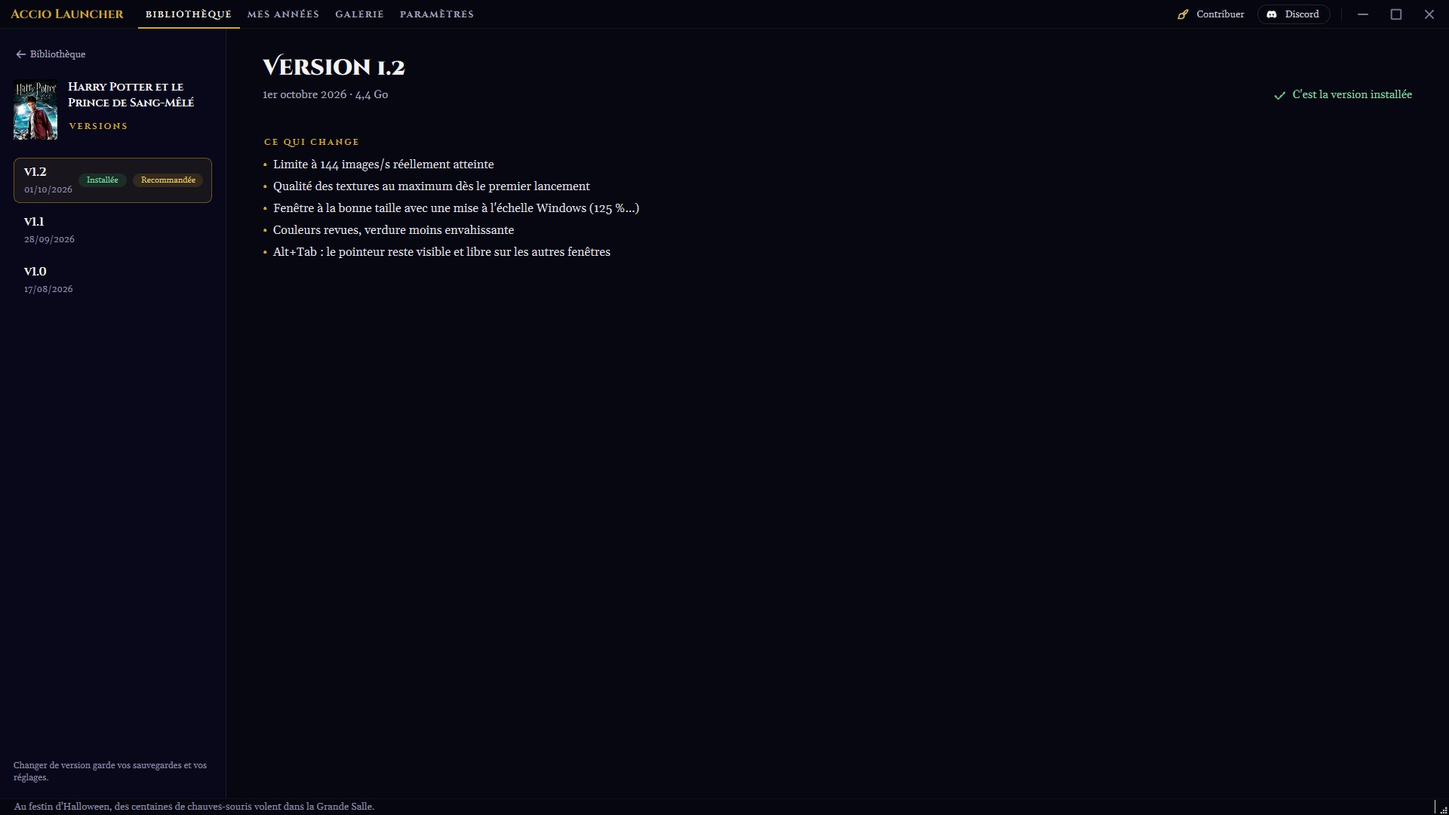
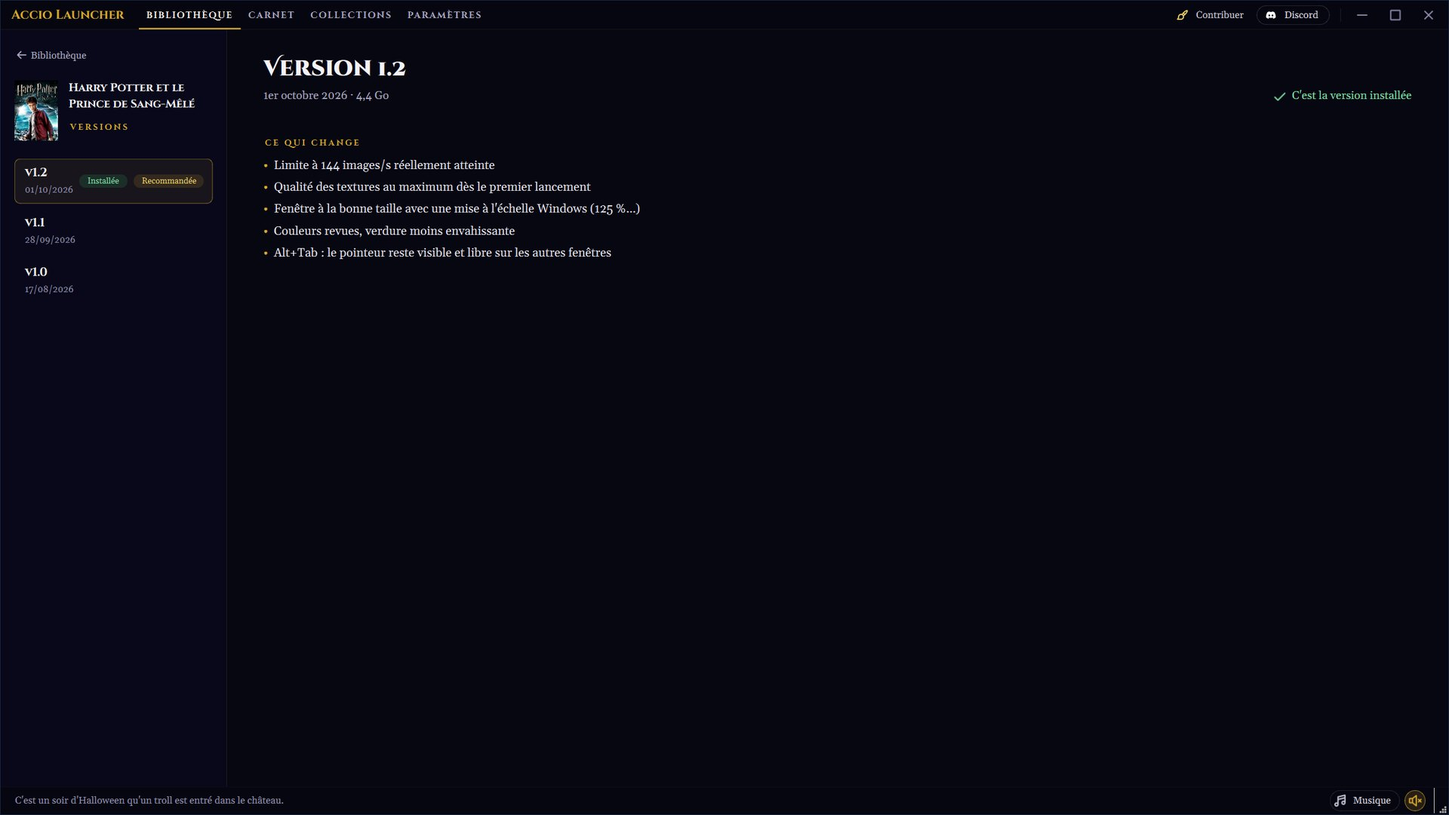
feat: Enhance video player functionality; update signal handling for position and duration

diff --git a/src/ui/video_player.py b/src/ui/video_player.py
@@ -137,8 +137,10 @@ class VideoPlayer(QObject):
         self._player.setVideoOutput(self._sink)
         self._player.setAudioOutput(self._audio)
         self._player.mediaStatusChanged.connect(self._on_media_status)
-        self._player.positionChanged.connect(self.position_changed)
-        self._player.durationChanged.connect(self.duration_changed)
+        # Relayés par des méthodes : un signal qint64 ne se branche pas sur un
+        # signal int (« connect() failed », vu au premier vrai lancement).
+        self._player.positionChanged.connect(self._sur_position)
+        self._player.durationChanged.connect(self._sur_duree)
         self._position_en_attente = debut_ms if debut_ms > 0 else -1
 
         self._player.setSource(QUrl.fromLocalFile(video_path))
@@ -154,8 +156,8 @@ class VideoPlayer(QObject):
             self._player.stop()
             self._player.setSource(QUrl())
             self._player.mediaStatusChanged.disconnect(self._on_media_status)
-            self._player.positionChanged.disconnect(self.position_changed)
-            self._player.durationChanged.disconnect(self.duration_changed)
+            self._player.positionChanged.disconnect(self._sur_position)
+            self._player.durationChanged.disconnect(self._sur_duree)
             self._sink.videoFrameChanged.disconnect(self._on_frame)
             self._player.deleteLater()
             self._sink.deleteLater()
@@ -211,6 +213,12 @@ class VideoPlayer(QObject):
                 self._image_vide_signalee = True
                 log.warning("Vidéo : image reçue mais non convertible (format %s, support %s)",
                             frame.pixelFormat(), frame.handleType())
+
+    def _sur_position(self, ms: int) -> None:
+        self.position_changed.emit(int(ms))
+
+    def _sur_duree(self, ms: int) -> None:
+        self.duration_changed.emit(int(ms))
 
     def _on_media_status(self, status) -> None:
         if self._position_en_attente >= 0 and status in (

diff --git a/tests/test_video_player.py b/tests/test_video_player.py
@@ -40,6 +40,18 @@ class TestVraieLecture:
         assert couleur.red() > 180 and couleur.green() < 80, couleur.name()
         assert not lecteur.is_playing, "la fin rend les ressources"
 
+    def test_la_duree_et_la_position_pour_la_barre_de_lecture(self, lecteur, qtbot):
+        durees = []
+        lecteur.duration_changed.connect(durees.append)
+        with qtbot.waitSignal(lecteur.position_changed, timeout=10000):
+            assert lecteur.play(str(VIDEO), muted=True)
+        qtbot.waitUntil(lambda: any(d > 0 for d in durees), timeout=10000)
+        assert 400 <= max(durees) <= 800              # 0,6 s
+        lecteur.pause()
+        lecteur.seek(300)
+        qtbot.waitUntil(lambda: lecteur.position >= 250, timeout=5000)
+        assert lecteur.duration == max(durees)
+
     def test_relancer_remplace_la_lecture_en_cours(self, lecteur, qtbot):
         assert lecteur.play(str(VIDEO), muted=True)
         premier = lecteur._player

diff --git a/docs/claude/ARCHITECTURE_UI.md b/docs/claude/ARCHITECTURE_UI.md
@@ -52,7 +52,7 @@ Suite de [ARCHITECTURE.md](ARCHITECTURE.md), déplacée telle quelle le 2026-10-
 - **`resume_partie.py`** (2026-10-15, maquette H du canevas « fiche ») — **la description cède sa place quand il y a mieux à montrer** (Ludo : « tant qu'on a rien on laisse la description »). Deux états seulement : jamais joué, pas installé ou sauvegarde illisible (tout début du jeu) → description ; sauvegarde LISIBLE d'un jeu de `folio.JEUX` → « Dernière partie hier · Parc de Poudlard » sous le titre, puis le bouton (« Reprendre » même sans temps de jeu du launcher : la sauvegarde suffit), puis `BlocFolio` (éventail de trois cartes du jeu, « 7 cartes sur 25 », barre d'or, « Serpentard mène · 10 min en tout »), et « À propos du jeu » dans la ligne d'indices remet la description (« Ma partie » la range). La date est celle de la SAUVEGARDE (elle va avec le lieu, et compte une partie lancée hors du launcher). `folio.resume_hp1` choisit la dernière LISIBLE ; `InfoPanel.rafraichir_indices` la relit (9 ms) et `GameDetailView._refresh` l'appelle AVANT le panneau d'actions, qui range alors ses colonnes de statistiques (`ActionPanel.partie_dans_la_fiche`). Le retour de partie passe par `set_game` même id : la première sauvegarde fait basculer la fiche. **Une seule ligne dans le bloc** : en `wordWrap`, sa hauteur ne suivait pas et la seconde ligne était coupée (règle 39) ; l'écart de points reste dans le folio. `tools/audit_geometrie.py` FABRIQUE une partie de HP1 (`_partie_hp1`) : sans elle, cet état n'était mesuré que chez qui a des sauvegardes, lues dans SES Documents. Un jeu rejoint cet état en entrant dans `folio.JEUX` avec son lecteur. **Entre les deux (HP5, 2026-10-15)** : un jeu SANS folio dont le jeu écrit l'avancement (`sauvegardes.derniere_avancee`, emplacements `hp5`) garde sa description et gagne seulement la ligne « Dernière partie le 01/10/2026 · 14 % terminé » (`InfoPanel._avancee`) ; pas de bloc, pas d'« À propos du jeu », statistiques du panneau d'actions inchangées. L'audit de géométrie fabrique aussi un `HPOOTP` à 14 %.
 - **`visite_guidee.py`** (2026-10-24, idée de Ludo : « le launcher propose bien plus qu'ils ne le pensent ») — la fenêtre s'assombrit (`bg_qcolor(205)`), un seul élément reste découpé et cerclé d'or, une carte dit à quoi il sert : carrousel, JOUER (`btnPlay`), engrenage (`btnGameSettings`), `BlocFolio`, onglets Mes années / Galerie, Contribuer, Paramètres. Les cibles sont CHERCHÉES à chaque étape (la fiche se reconstruit par jeu) ; une cible absente ou cachée (jeu pas installé) saute l'étape, et le compteur ne compte que les montrées. Montrée une fois (`Config.visite_vue`, faux sur une config neuve COMME sur une config d'avant : elle vient après l'assistant et après la mise à jour). **`PiloteVisite` porte tout le déclenchement** (plafond de lignes de `main_window.py`, relevé de 760 à 766 avec sa raison dans `test_la_fenetre_reste_sous_le_seuil`) : il pose son propre filtre d'événements sur la fenêtre (Show → minuteur POSSÉDÉ de 1,5 s, règle 102 ; Resize → le calque suit), puis `proposer` : pas en jeu, pas au tray, et une page ouverte (les nouveautés après une mise à jour) la fait attendre `Pages.fermee`. Notée vue à la FIN (finie ou passée) : une fenêtre fermée au milieu la remontre. Paramètres › Général › Découvrir › « Revoir la visite » (`SettingsDialog.visite_demandee` → `PiloteVisite.revoir`). **Pendant la visite, `MainWindow._handle_global_key` donne le clavier à `PiloteVisite.touche` AVANT `touche_globale`** : Entrée lançait sinon le jeu caché sous le voile, et les flèches tournaient le carrousel. Le calque avale les clics. Carte : sous l'élément, sinon dessus, sinon au centre, bornée à 16 px du bord ; elle s'élargit pour un libellé long au lieu de le rogner, et « Passer la visite » disparaît à la dernière étape (« Terminer » suffit). Les tests ne la voient jamais partir seule (`conftest._visite_jamais_spontanee`) ; `tests/test_visite_guidee.py` l'appelle directement.
 - **Quatre onglets, plus un de plus (2026-10-24, maquette « Collections », Ludo : « on ne peut pas avoir des onglets à l'infini »)** — `title_bar` : BIBLIOTHÈQUE, **CARNET** (`CARNET`, l'ancien « Mes années » : « ne signifie plus rien »), **COLLECTIONS** (`COLLECTIONS`, Galerie et Médias réunis), PARAMÈTRES. Une idée nouvelle devient une RUBRIQUE : ce qui se lit dans les sauvegardes va au Carnet, ce que les jeux contiennent aux Collections. **`carnet_page.py`** : `CarnetPage`, rubriques **Folio d'abord** (Ludo : « le folio en priorité ») puis Relevé ; les pages d'avant (`page_folio`, `StatsDialog`) y sont posées en mode `integree` (sans leur retour), bâties à la première visite, le folio rebâti quand le jeu change ; leur Échap ferme le Carnet. Le choix du jeu (jeux du folio installés) ne s'affiche que sur Folio ; par défaut le dernier joué. Le lien FOLIO de la fiche ouvre le Carnet sur ce jeu, et la propriété Qt « onglet » de la page fait souligner l'onglet (`Pages.ouvrir`). Le toast des succès ouvre le Folio, où vivent les succès (`main_window._on_stats("folio")`). Le bouton Galerie de l'ancien Mes années est retiré. **Audit du 2026-10-24 (maquette « Rangement d'Accio », Ludo : « ne massacre pas l'UI des folios, ajoute juste ce qu'il faut »)** : les SUCCÈS passent du Relevé au folio (`FolioPage._ajouter_succes`, au bas de la colonne qui défile, avant son ressort ; ceux de toutes les sauvegardes du jeu), le TEMPS de chaque sauvegarde s'écrit sur sa ligne du rail (`_LigneEmplacement(temps=)`, relié par `_chemin` : None pour HP4 et HP5, dont un fichier porte plusieurs parties ; HP6 garde la table `_chemins`). Le Relevé perd ses cartes de sauvegarde et sa fiche de jeu : une ligne cliquée (ou Entrée) émet `_Releve.ouvert` et mène au folio, les flèches ne font que déplacer le choix. `_CarteSauvegarde` et `_GrilleSauvegardes` restent dans `stats_widgets.py` sans appelant. La restauration des sauvegardes reste dans Paramètres (Ludo). **Audit sur captures de la vraie fenêtre (2026-10-24, `scratchpad/audit_ui.py` : copie de la config, son coupé)** : le Carnet tient sa rubrique dans `_rubrique` — la DÉDUIRE de la pile se trompait, retirer l'ancien folio faisant passer la pile sur le Relevé (changer de jeu dans le Folio montrait le Relevé) ; rubriques JUSTE APRÈS le titre au Carnet et aux Collections (« pas bien indiqué … à droite ») ; **`choix_jeux.py`** : pastille = jaquette + année en chiffre romain (« VII · 1 », « VII · 2 »), nom complet en infobulle échappée et en nom accessible, partagée par le Carnet, les Collections et les filtres des Captures (huit noms complets prenaient deux lignes) ; `espacee()` peint le blanc entre icône et libellé DANS le pixmap (règle 30 ; l'ancienne `about_page._icone_espacee` n'existe plus). Compteurs des Collections : « IV · 130 », le mot en infobulle. Fiche : le galet « Collections » (icône `images`, comme l'onglet ; « Musique » ne disait ni les cinématiques ni les captures, Ludo 2026-10-24) ouvre `Mediatheque.rubrique_pour` : la rubrique qui a du NOUVEAU pour ce jeu, sinon sa musique, sinon ses cinématiques. Il partageait l'hôte du bloc du folio, montré seulement avec un « Reprendre » : de HP4 à HP8 il n'apparaissait JAMAIS (audit 2026-10-25). Seul sur sa rangée, il est retiré par `InfoPanel.squeeze_medias` quand la fiche manque de place (après la description, avant le titre ; rendu à chaque jeu et chaque taille, règle 43). Les tests de mise en page attendent la fin des passes par `_reste_a_defiler` (`qtbot.waitUntil`), pas par une attente fixe. **Audit de nuit du 2026-10-25** (`scratchpad/audit_complet.py` : copie de la config ET des JSON voisins — sessions, vus, succès —, sinon le Relevé se lit vide) : `utils.clear_layout` CACHE avant `deleteLater` (la copie `_vider` des Collections ne le faisait pas : trois listes peintes l'une sur l'autre en changeant vite de jeu) ; `FlowLayout` ne garde pas la place d'un widget caché EXPRÈS (`WA_WState_ExplicitShowHide` : trous noirs entre les captures filtrées) ; le chiffre du graphique des mois est rogné d'après la place DISPONIBLE (`_Mois._valeur` : « 3… » à 125 %) et emprunte la colonne d'une voisine dont le chiffre est à une autre hauteur ; dates anciennes en toutes lettres (`date_longue`, plus de `%d/%m/%Y`) sur la fiche et dans les succès. Collections ouvre sur Captures (Ludo), la note de la fiche et le mini-lecteur sur Musique. **Collections** = `MediathequePage` avec une 3e rubrique **Captures** (`mediatheque.CAPTURES`) : la `GaleriePage` en mode `integree`, bâtie à la première visite, pastilles des jeux cachées (la Galerie a ses filtres) ; `done` de la page appelle celui de la Galerie (arrêt du décodage des vignettes) après l'avoir débranchée. `tests/test_carnet.py`.
-- **`mediatheque.py`** + **`mediatheque_page.py`** + **`disque.py`** + **`fond_sonore.py`** (2026-10-24, demande de Ludo : musique et vidéos par jeu, un morceau en fond sonore, un bouton qui coupe tout « sans 15 menus », déblocage au fil de la partie, marque des nouveautés ; maquette « Phonographe d'Accio » validée). **Un seul onglet, aujourd'hui COLLECTIONS** (« on n'a pas assez de place »), rubriques Musique et Cinématiques dans la page, et deux raccourcis : le **mini-lecteur** de la barre du bas (`MiniLecteur`, `addPermanentWidget` : petit disque qui tourne + titre, ouvre la page ; haut-parleur = `Config.son_coupe`, qui coupe AUSSI les bandes-annonces via `GameDetailView.apply_audio_config`) et le lien **« Musique » de la ligne méta de la fiche** (`InfoPanel.mediatheque_clicked` → `GameDetailView.mediatheque_demandee`). Pastille or sur l'onglet (`_Onglet.poser_pastille`) tant qu'un morceau ou une cinématique ouverts n'ont pas été MONTRÉS ; **une rubrique ne marque vu que quand elle est affichée** (la page bâtit les deux d'un coup : la Musique marquait les cinématiques vues). **`Mediatheque` porte tout le câblage** (plafond de `main_window.py`, 766 → 769 avec sa raison) : bande-annonce sonore → la musique se tait, partie lancée → se tait (`JEU`), retour de partie → relit l'avancement puis reprend, `aboutToQuit` → arrêt. **`FondSonore`** : un lecteur, des RAISONS de se taire (`BANDE_ANNONCE`, `JEU`, `FENETRE`, `CINEMATIQUE`) ; une écoute de la page passe devant le fond, se met en pause sur place et CONTINUE hors de la page ; volume écrit au lâcher du curseur. **`Disque`** : la jaquette du catalogue imprimée sur un CD (cadrage par jeu `CADRAGES`, trou, anneau clair), peinte une fois par taille, tournée au `Ticker` (règle 18) ; le reflet ne tourne pas. Cinématiques : `VideoPlayer` à plein débit dans un écran 16:9, la musique suspendue pendant la lecture et rendue à l'arrêt, à la fin, au changement de rubrique et à la fermeture de la page (`done`). `tests/test_mediatheque.py`.
+- **`mediatheque.py`** + **`mediatheque_page.py`** + **`disque.py`** + **`fond_sonore.py`** (2026-10-24, demande de Ludo : musique et vidéos par jeu, un morceau en fond sonore, un bouton qui coupe tout « sans 15 menus », déblocage au fil de la partie, marque des nouveautés ; maquette « Phonographe d'Accio » validée). **Un seul onglet, aujourd'hui COLLECTIONS** (« on n'a pas assez de place »), rubriques Musique et Cinématiques dans la page, et deux raccourcis : le **mini-lecteur** de la barre du bas (`MiniLecteur`, `addPermanentWidget` : petit disque qui tourne + titre, ouvre la page ; haut-parleur = `Config.son_coupe`, qui coupe AUSSI les bandes-annonces via `GameDetailView.apply_audio_config`) et le lien **« Musique » de la ligne méta de la fiche** (`InfoPanel.mediatheque_clicked` → `GameDetailView.mediatheque_demandee`). Pastille or sur l'onglet (`_Onglet.poser_pastille`) tant qu'un morceau ou une cinématique ouverts n'ont pas été MONTRÉS ; **une rubrique ne marque vu que quand elle est affichée** (la page bâtit les deux d'un coup : la Musique marquait les cinématiques vues). **`Mediatheque` porte tout le câblage** (plafond de `main_window.py`, 766 → 769 avec sa raison) : bande-annonce sonore → la musique se tait, partie lancée → se tait (`JEU`), retour de partie → relit l'avancement puis reprend, `aboutToQuit` → arrêt. **`FondSonore`** : un lecteur, des RAISONS de se taire (`BANDE_ANNONCE`, `JEU`, `FENETRE`, `CINEMATIQUE`) ; une écoute de la page passe devant le fond, se met en pause sur place et CONTINUE hors de la page ; volume écrit au lâcher du curseur. **`Disque`** : la jaquette du catalogue imprimée sur un CD (cadrage par jeu `CADRAGES`, trou, anneau clair), peinte une fois par taille, tournée au `Ticker` (règle 18) ; le reflet ne tourne pas. Cinématiques : `VideoPlayer` à plein débit dans un écran 16:9, **barre de lecture** (2026-10-25 ; longueur = la plus longue de l'image et de la voix, déplacer déplace les deux, une image finie repart par `play(debut_ms=)` si on revient en arrière ; `position_changed`/`duration_changed` RELAYÉS par des méthodes : un `positionChanged(qint64)` branché sur un `pyqtSignal(int)` lève « connect() failed ») et **« Enregistrer… »** (la vidéo, et sa voix en `.wav` à côté sous le même nom), la musique suspendue pendant la lecture et rendue à l'arrêt, à la fin, au changement de rubrique et à la fermeture de la page (`done`). `tests/test_mediatheque.py`.
 - **`succes_widgets.py`** (2026-10-24) — `SectionSucces`, section « Succès » du Folio de chaque jeu (`folio_page._ajouter_succes`, avant le ressort de la première zone défilante) : « 2 sur 5 », les obtenus d'abord dans l'ordre du jeu, puis les autres en retrait ; la date seulement si elle est connue. **Annonce au retour** : `GameSession.succes_obtenus` est posé AVANT `terminee` (règle 134) ; `succes_widgets.annoncer_succes`, appelé par `MainWindow._on_game_exited`, montre un toast (trois titres au plus, « et N autres ») qui ouvre le Folio du Carnet sur le dernier jeu joué (il menait au Relevé, où les succès ne sont plus : corrigé le 2026-10-25), et passe devant le merci du Ko-fi, qui attend le retour suivant (un toast à la fois). Logé hors de la fenêtre : `main_window.py` est à son plafond de 769 lignes (`test_la_fenetre_reste_sous_le_seuil`).
 - **`core/textures_ue1.py`** (2026-10-14) — lit une texture 256 couleurs dans un paquet Unreal 1 du jeu INSTALLÉ (en-tête, tables des noms, imports, exports, propriétés étiquetées, premier niveau de détail, palette). Lecture seule, bornée (64 Mo), tout ce qui n'a pas été relevé (autre format que P8, taille absurde, table tronquée) rend None. Paquet gardé en mémoire tant que son fichier ne change pas (0,03 s pour les 50 cartes). Un booléen étiqueté a une taille 0, sa valeur est le bit « tableau ». **Une taille de propriété négative est refusée** (elle faisait reculer la lecture : boucle sans fin dans le fil de l'interface, audit du 2026-10-14), comme des tables annoncées plus grandes que le fichier. Les cartes : `WizCard<Nom>BigTexture` (256 × 256) et `…SmallTexture` (128 × 128) dans `HPMenu.u`, masquées (indice 0 transparent). Aucune image du jeu n'est recopiée dans le launcher.
 - **`images.py`** + **`core/images_a_refaire.py`** (2026-10-09) — les jaquettes CARRÉES (HP2, HP7) étaient étirées dans la vignette 18:25 du carrousel : `images.jaquette` les pose entières sur un fond tiré d'elles-mêmes, flouté et assombri ; au bon format, simple recadrage. Un flou des fonds trop petits a été essayé et retiré (avant/après : plus flou, rien de gagné). `images_a_refaire` dit, d'après les dimensions, quelles images appellent un artiste (cibles du cahier des charges : jaquette 1080 × 1500, fond 3840 × 2160)  ; l'atelier en tire son métier « Jaquettes et fonds » (voir plus haut).

diff --git a/docs/claude/ARCHITECTURE_CORE.md b/docs/claude/ARCHITECTURE_CORE.md
@@ -17,8 +17,8 @@ Suite de [ARCHITECTURE.md](ARCHITECTURE.md), déplacée telle quelle le 2026-10-
 - **`vgmstream.py`** (pur, 2026-10-24, exécution autorisée par Ludo) — convertit en WAV les sons d'EA que FFmpeg ne lit pas (EALayer3 de HP5/HP6, Wwise Vorbis de HP7/HP8). r2117, licence ISC, embarqué dans `assets/vgmstream/` sous Windows, **non suivi par git depuis le 2026-10-25** (12 alertes Scorecard « Binary-Artifacts ») : `build/vgmstream.py`, lancé par `build.bat` et la CI avant les tests, télécharge `vgmstream-win64.zip` r2117 et vérifie l'empreinte du zip puis de chaque fichier (11 Mo : TOUTES les DLL sont liées à l'exe, il refuse de démarrer sans `libspeex-1.dll` même pour de l'EALayer3) ; sous Linux, le `vgmstream-cli` du système, rien d'embarqué (filtre du `.spec`). Une minute de HP5 en 0,18 s, huit minutes de HP7 en 1,4 s : la conversion se fait au moment de la lecture. `convertir` : écriture atomique, cible plus récente que la source réutilisée, None sur échec ou délai (60 s). `tests/test_vgmstream.py`.
 - **`phonographe.py`** (pur, 2026-10-24, idée validée par Ludo ; lu par la Médiathèque, `ui/mediatheque.py`) — les musiques des jeux, lues dans la copie du joueur. HP2 et HP3 : `music/*.ogg` (casse du dossier ignorée), lus tels quels. **HP1 : `Music/*.umx`, un objet `Music` par paquet, format NOMMÉ dans la table des noms : `mp2` sur les 91** ; `flux_umx` sort le flux (propriétés vides, index du format, int32 de saut, compte compact, octets : disposition relevée sur la version 75) et `fichier_lisible` le recopie une fois dans `cache_pour(...)/phonographe/<jeu>/` (écriture atomique), lu ensuite par QtMultimedia comme un fichier. Vérifié hors suite sur les jeux de Ludo : 91 + 141 + 152 morceaux, tous lisibles, extraction identique à l'octet. HP4-HP6 : blocs EA `SCHl` de `music.big` (`archives_ea`) ; HP4 lu tel quel (`adpcm_ea_r3`), **HP5 et HP6 en EALayer3 passent par `vgmstream`** (53 et 114 morceaux, WAV dans le cache, plafonné à `_PLAFOND_WAV` par jeu, les moins récemment écoutés partent ; sans vgmstream, pas de morceaux). `tests/test_phonographe.py` FABRIQUE ses paquets (règle 78). **`exporter`** (« Enregistrer ce morceau », Ludo : « récupérer la musique si les gens la veulent ») copie le fichier lisible sous son titre (`nom_de_fichier` : valable sous Windows) dans `Musique/Accio/HPx` ; même nom et même taille = déjà enregistré, un autre fichier du même nom n'est JAMAIS écrasé (« Titre (2) »).
 - **`discographie.py`** (pur, 2026-10-24) — **HP4 : 109 morceaux** tirés de `music.big` par `phonographe` (flux ≥ `SEUIL_MORCEAU`, ambiances `sfx`/`amb` écartées, clé `<flux>-<n>`), tous ouverts (HP4 n'écrit pas d'avancement lisible) ; les jeux qui écrivent leur pourcentage (HP5) passent par `sauvegardes.releve`. Crédits des huit jeux (Soule HP1-HP4, Hannigan HP5-HP8). les morceaux de `src/data/discographie.json` (EMBARQUÉ, titres et seuils validés par Ludo dans l'artefact Discographie) et ce que le joueur en a ouvert. **Règle unique `ouvert_au_seuil`** (morceaux ET cinématiques) : seuil 0 ouvert, puis dès qu'UNE sauvegarde atteint le seuil (`avancement` rend le MAXIMUM des emplacements), et tout le jeu, générique compris, à `TOUT_A` = 75 % (« tout débloquer d'un jeu après le 75 % »). Avancement : HP2/HP3 par le rang de `CurrentGameState` parmi les étapes relevées dans `system/*.u` ; HP1 par le rang du niveau. **Crédits** (`charger_credits`, bloc `credits` du même fichier) : Jeremy Soule, © 2001/2002/2004 Electronic Arts Inc., affichés sous chaque morceau (demande de Ludo). Morceaux vus : `_Launcher/musiques_vues.json` (écriture atomique) ; les cinématiques vues s'y rangent sous `hpX:cinematiques`.
-- **`cinematiques.py`** (pur, 2026-10-24) — les vidéos livrées avec les jeux, d'après `src/data/cinematiques.json` (EMBARQUÉ ; ids du CATALOGUE : `hp7a`/`hp7b`, une première version disait `hp7`/`hp8` et n'affichait rien). **HP1 et HP2 n'ont aucun fichier vidéo** (moteur). HP3 : 12 Bink dans `Movies/` (un `.bik.off` compte). **HP4 : `movies.big`**, vidéo VP6 sans son + **voix à part** par langue (`Movies/French/*.asf`, `voix`), jouées ensemble par la page (second lecteur). HP5, HP6 : VP6 dans `movies.big`, sans son ; voix des transitions par `Banque` (12 + 7), le son des autres cinématiques est dans les banques de chapitre, non relié. HP7/HP8 : VP6 dans `pc/`, sans son (Wwise). `presentes` rend des `Source` (fichier ou entrée d'archive) ; `lisible` recopie une fois dans `cache_pour(...)/cinematiques/<jeu>/<langue>/`. Seuils : HP3 et HP5 estimés d'après l'histoire (HP5 écrit son pourcentage, lu par `sauvegardes.releve`), tout ouvert ailleurs.
-- **`archives_ea.py`** (pur, 2026-10-24) — archives BIGF d'EA (HP4-HP6) : `lister` (relu seulement si le fichier change), `trouver`, `flux_schl` (flux SCHl…SCEl d'une `.mus`, en ne lisant que les en-têtes de blocs, remplissage entre flux sauté par pas de 64 Kio qui se RECOUVRENT de 3 octets — sans recouvrement, un « SCHl » à cheval sur deux pas était sauté avec son morceau (audit 2026-10-25 ; aucun dans les archives actuelles de HP4-HP6, vérifié : numérotation inchangée) : 0,3 s pour toute la musique de HP4) et `extraire` (écriture atomique, réutilise une extraction de la bonne taille). L'archive n'est jamais écrite. `tests/test_archives_ea.py` FABRIQUE ses archives (règle 78).
+- **`cinematiques.py`** (pur, 2026-10-24) — les vidéos livrées avec les jeux, d'après `src/data/cinematiques.json` (EMBARQUÉ ; ids du CATALOGUE : `hp7a`/`hp7b`, une première version disait `hp7`/`hp8` et n'affichait rien). **HP1 et HP2 n'ont aucun fichier vidéo** (moteur). HP3 : 12 Bink dans `Movies/` (un `.bik.off` compte). **HP4 : `movies.big`**, vidéo VP6 sans son + **voix à part** par langue (`Movies/French/*.asf`, `voix`), jouées ensemble par la page (second lecteur). HP5, HP6 : VP6 dans `movies.big`, sans son ; voix des transitions par `Banque` (12 + 7), **les autres par `Chapitre`** (2026-10-25 : HP6 20/20, HP5 31/55) : le `.str` neutre du chapitre nomme le son comme la vidéo (« …\Seed\ns03.map ») et sa fiche porte un hachage, identique dans toutes les langues ; l'index de chaque langue (`chapters/hogwarts/fr-fr.str`, fin d'un bloc ATAD : compte puis position, durée ms, hachage ; `positions_index`, pur) donne la position dans `<code>_s.sdt`, que `archives_ea.flux_a` lit en sautant l'en-tête ADAT (sous-titres SUB3 en UTF-16) ; index et banques sont répartis entre `data.big`…`data4.big`. Hachages relevés hors jeu (fiches HP5.md/HP6.md de l'atelier), écrits en hexadécimal dans `cinematiques.json`. HP7/HP8 : VP6 dans `pc/`, sans son (Wwise). `presentes` rend des `Source` (fichier ou entrée d'archive) ; `lisible` recopie une fois dans `cache_pour(...)/cinematiques/<jeu>/<langue>/`. Seuils : HP3 et HP5 estimés d'après l'histoire (HP5 écrit son pourcentage, lu par `sauvegardes.releve`), tout ouvert ailleurs.
+- **`archives_ea.py`** (pur, 2026-10-24) — archives BIGF d'EA (HP4-HP6) : `lister` (relu seulement si le fichier change), `trouver`, `flux_schl` (flux SCHl…SCEl d'une `.mus`, en ne lisant que les en-têtes de blocs, remplissage entre flux sauté par pas de 64 Kio qui se RECOUVRENT de 3 octets — sans recouvrement, un « SCHl » à cheval sur deux pas était sauté avec son morceau (audit 2026-10-25 ; aucun dans les archives actuelles de HP4-HP6, vérifié : numérotation inchangée) : 0,3 s pour toute la musique de HP4) `flux_a` (un seul flux à une position, en-tête ADAT sauté), `lire` (petite entrée, plafonnée à 1 Mio) et `extraire` (écriture atomique, réutilise une extraction de la bonne taille). L'archive n'est jamais écrite. `tests/test_archives_ea.py` FABRIQUE ses archives (règle 78).
 - **`reglages_correctif.py`** (pur) — réglages du correctif PC de HP4-HP6, écrits dans son `d3d9.ini` à côté de l'exe. **Seulement ce qui a été VU en jeu** : le catalogue les déclare par jeu (`fix_settings`), un identifiant inconnu est ignoré. **Seulement le nouveau correctif** : reconnu à `[Accio.Window]` ; sur l'ancien wrapper (celui des archives publiées), la fenêtre dit que les réglages arrivent avec la prochaine version au lieu d'écrire des clés que personne ne lit. **Édition en place** (seule la ligne change, CRLF et encodage gardés, écriture atomique). Le préréglage de touches se calcule depuis la **disposition du clavier** (codes de balayage → lettres : ZQSD en AZERTY, WASD en QWERTY) — le correctif lit les touches par leur nom IMPRIMÉ ; hors Windows, WASD. Des touches posées à la main ne sont jamais écrasées. Affiché par `GameSettingsDialog._section_correctif`, écrit AUSSITÔT (pas de bouton « Appliquer »), échec → contrôle remis sur le fichier + message.
 - **`touches_correctif.py`** (pur) + **`ui/editeur_touches.py`** — l'éditeur de touches de HP4 (2026-09-30), sous le préréglage ZQSD dans l'onglet Commandes, affiché quand le jeu déclare `touches_zqsd` : les 11 actions de `kActionsHp4` (keys.cpp), un clic puis la touche ou le bouton de souris, écrit AUSSITÔT (Échap annule). Les noms sont ceux que lit le correctif (lettres telles qu'IMPRIMÉES, `LShift`, `Num7`, `MouseLeft`… ; « , » « ; » et tout non-ASCII refusés). **Une touche donnée à une action perd son rôle d'origine** (g_consumed) : `sans_touche` le calcule par POSITION (VkKeyScan sous Windows, US ailleurs) et l'éditeur l'écrit (« Extremos n'a plus de touche : S sert maintenant à Reculer »). Une touche n'a qu'une action (`attribuer` la retire aux autres). Le préréglage (la carte « ZQSD et souris » de la Disposition) se verrouille dès qu'une de SES huit touches est choisie à l'unité, et « Remettre les touches du jeu » le libère ; trois cartes depuis le 2026-10-09 (Se déplacer en croix, Lancer un sort, Menus ; une flèche se DESSINE, Phosphor), côte à côte au-dessus de 900 px (`Rangee`) ; la remise à l'origine couvre les onze actions (`_cles`). Gauche/droite par le code de balayage natif (Windows 0x36/0x11D/0x138, X11 62/105/108) ; pavé numérique verrouillage éteint → `Num8`, pas `Up`.
 - **`game_language.py`** — langue d'un jeu, extrait de `game_manager` (763 → 639 lignes). Les fonctions prennent `game` et `config` EXPLICITEMENT au lieu de lire `self`, donc s'exercent sans construire de manager. `langues_disponibles(game)` filtre sur la PRÉSENCE du fichier témoin (`requires_file`) : le registre ne fait que SÉLECTIONNER, les fichiers viennent du disque d'origine — HP7 partie 1 n'embarque que `DH1_French.pck`, la partie 2 les sept. **`valeurs_registre(game, code)`** compose les valeurs COMMUNES du bloc (`values`, `%INSTALL_DIR%` substitué) **plus** celles de la langue, langue en dernier : une seule écriture, donc **une seule invite UAC** au lieu de deux à la suite. `apply_game_language` applique AVANT de persister, sinon un UAC refusé laisserait en config un choix que le registre n'a pas pris. Les tests bouchonnent `src.core.game_language.registre.*`.

diff --git a/README.md b/README.md
@@ -142,11 +142,11 @@ environnement virtuel) produit `dist/AccioLauncher-x86_64.AppImage`.
 <table>
   <tr>
     <td width="50%"><img src="docs/screen_installed.jpg" alt="Un jeu installé, avec le temps de jeu"></td>
-    <td width="50%"><img src="docs/screen_stats.jpg" alt="Mes années à Poudlard : temps de jeu, sauvegardes et douze derniers mois"></td>
+    <td width="50%"><img src="docs/screen_stats.jpg" alt="Le relevé de scolarité du Carnet : temps de jeu, parties et douze derniers mois"></td>
   </tr>
   <tr>
     <td align="center"><sub>Un jeu installé et votre temps de jeu</sub></td>
-    <td align="center"><sub>Mes années à Poudlard : vos parties et vos sauvegardes</sub></td>
+    <td align="center"><sub>Le Carnet : votre temps de jeu, année par année</sub></td>
   </tr>
   <tr>
     <td width="50%"><img src="docs/screen_reglages.jpg" alt="Les réglages d'image d'un jeu"></td>
@@ -155,6 +155,14 @@ environnement virtuel) produit `dist/AccioLauncher-x86_64.AppImage`.
   <tr>
     <td align="center"><sub>Les réglages de chaque jeu, avec leur coût</sub></td>
     <td align="center"><sub>Versions et nouveautés : on change en un clic, sans jamais rester sans jeu</sub></td>
+  </tr>
+  <tr>
+    <td width="50%"><img src="docs/screen_folio.jpg" alt="Le folio d'une partie : cartes de Chocogrenouille, Coupe des Quatre Maisons et sorts appris"></td>
+    <td width="50%"><img src="docs/screen_cinematiques.jpg" alt="Les Collections : une cinématique du Prince de Sang-Mêlé avec sa barre de lecture"></td>
+  </tr>
+  <tr>
+    <td align="center"><sub>Le folio de chaque partie, lu dans votre sauvegarde</sub></td>
+    <td align="center"><sub>Les Collections : musiques et cinématiques des jeux, avec leur son</sub></td>
   </tr>
 </table>
 
